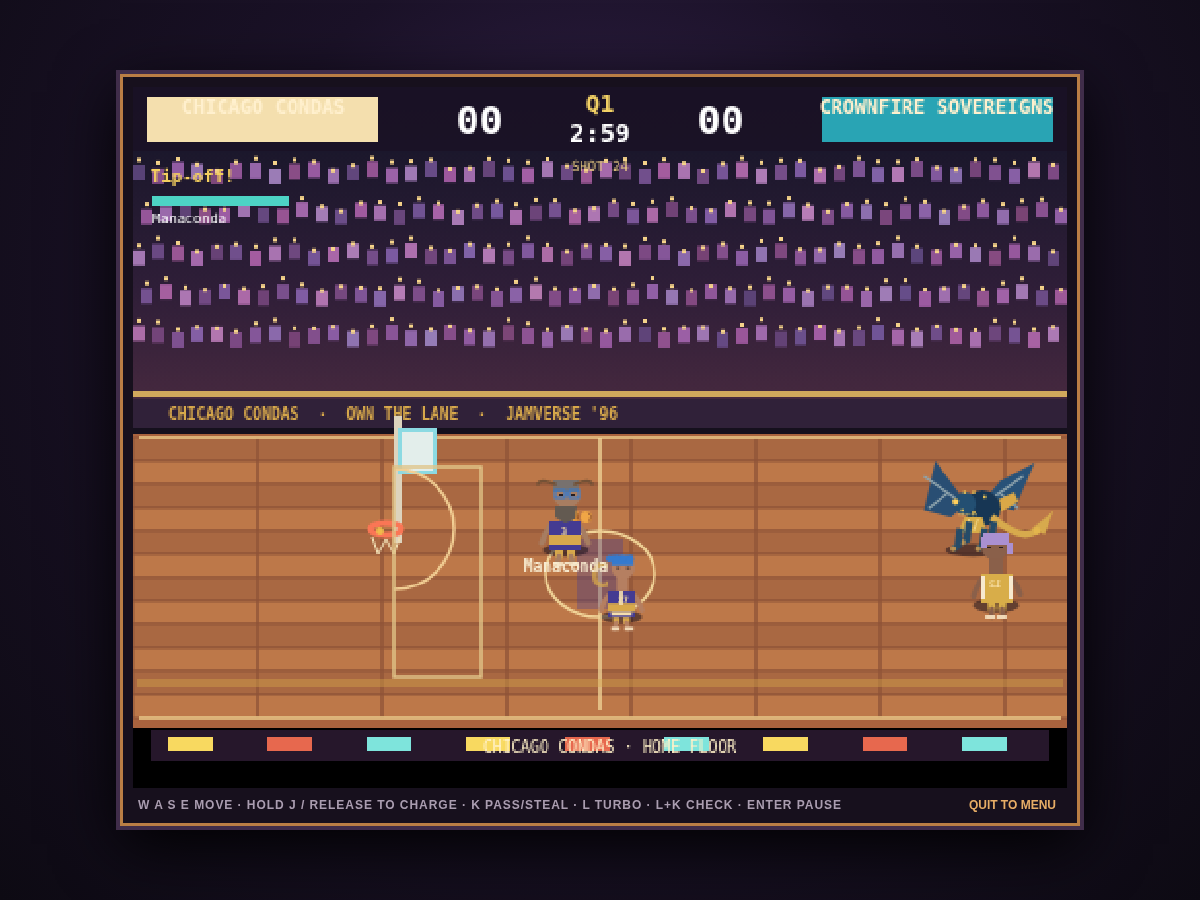
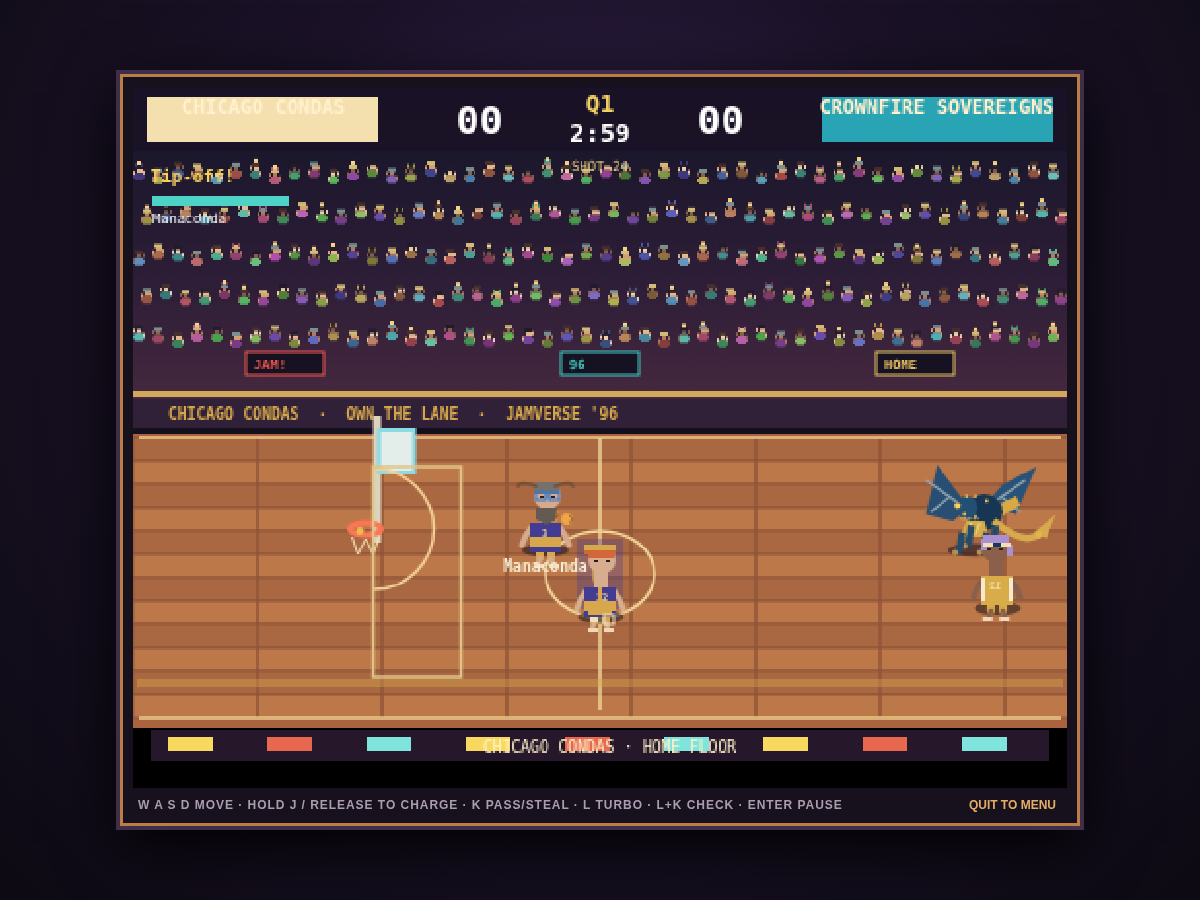
Add animated audience silhouettes and arena signs

diff --git a/dist/JAMVERSE_96.html b/dist/JAMVERSE_96.html
@@ -843,7 +843,23 @@ function hexRgb(c){return [parseInt(c.slice(1,3),16),parseInt(c.slice(3,5),16),p
 function rgbHex(c){return '#'+c.map(v=>Math.max(0,Math.min(255,Math.round(v))).toString(16).padStart(2,'0')).join('')}
 function render(){const w=480,h=360;ctx.clearRect(0,0,w,h);if(!match){drawArena();drawCourt();return}const focus=match.ball.x;camX+=(focus-camX)*.045;camX=Math.max(50,Math.min(150,camX));ctx.save();if(ui.shakeFrames>0&&screenShake&&!reducedFlash){ctx.translate(Math.sin(Date.now()/13)*ui.shakeFrames*.48,Math.cos(Date.now()/17)*ui.shakeFrames*.3)}drawArena();drawCourt();const entities=match.players.map(p=>({type:'player',p,sort:p.y+p.z*-.05}));entities.push({type:'ball',sort:match.ball.y-.5});entities.sort((a,b)=>a.sort-b.sort);for(const e of entities){if(e.type==='player')drawAthlete(e.p);else drawBall(match.ball)}ctx.restore();drawHUD();if(match.phase==='break')drawOverlay(`${match.period===3?'HALFTIME':'QUARTER BREAK'}`,`${match.teamNames[0]}  ${match.score[0]}  —  ${match.score[1]}`,'P/O SUB  ·  PASS ON GAMEPAD');if(match.phase==='overtime'&&match.periodBreak>0)drawOverlay('OVERTIME','NEXT PERIOD','SAME TEAMS. BIGGER MOMENT.');if(match.pause)drawOverlay('PAUSED','GAME FROZEN','ENTER TO RESUME');if(match.phase==='final')drawFinal();}
 function project(x,y,z=0){const px=240+(x-camX)*2.2;const py=177+y*1.42-z*7;return [px,py]}
-function drawArena(){const g=ctx.createLinearGradient(0,0,0,190);g.addColorStop(0,'#121426');g.addColorStop(.55,'#2f1e38');g.addColorStop(1,'#512e42');ctx.fillStyle=g;ctx.fillRect(0,0,480,190);for(let row=0;row<5;row++){for(let col=0;col<54;col++){const x=col*10+(row%2)*4,y=40+row*21+Math.sin(col*2+row)*2;const hue=(col*31+row*73)%42;ctx.fillStyle=`hsl(${hue+265} 28% ${36+(col*7+row*11)%25}%)`;ctx.fillRect(x,y,6,8);ctx.fillStyle='#f5d38a';const flicker=reducedFlash?0:Math.sin(Date.now()/250+col)*2;ctx.fillRect(x+2,y-2+flicker,2,2)}}const t=match?teamById(homeSelect.value):teams[0];ctx.fillStyle='#d1a85c';ctx.fillRect(0,156,480,3);ctx.fillStyle='#302139';ctx.fillRect(0,160,480,17);ctx.fillStyle=t.colors[1];ctx.font='bold 8px monospace';ctx.fillText(`${t.name.toUpperCase()}  ·  ${t.slogan.toUpperCase()}  ·  JAMVERSE '96`,18,171);ctx.fillStyle='#15101d';ctx.fillRect(0,175,480,4)}
+function drawArena(){
+  const g=ctx.createLinearGradient(0,0,0,190);g.addColorStop(0,'#121426');g.addColorStop(.55,'#2f1e38');g.addColorStop(1,'#512e42');ctx.fillStyle=g;ctx.fillRect(0,0,480,190);
+  const skins=['#e6b88f','#b5795d','#845d4e','#d6a071','#edcfa9','#8b6348'];
+  for(let row=0;row<5;row++)for(let col=0;col<54;col++){
+    const seed=col*31+row*73,x=col*10+(row%2)*4,y=40+row*21+Math.sin(col*2+row)*2;
+    const jacket=`hsl(${(seed*17+250)%360} 38% ${34+(seed*7)%25}%)`,skin=skins[seed%skins.length],head=2+(seed%3===0?1:0),creature=seed%7===0;
+    ctx.fillStyle=jacket;ctx.fillRect(x+1,y+4,4,4);ctx.fillRect(x,y+5,1,2);ctx.fillRect(x+5,y+5,1,2);
+    ctx.fillStyle=skin;ctx.fillRect(x+2,y+1,head,3);
+    ctx.fillStyle=(seed%4===0?'#211c29':seed%4===1?'#d2bd78':seed%4===2?'#45302c':'#789092');ctx.fillRect(x+1,y,4,2);
+    if(creature){ctx.fillStyle=jacket;ctx.fillRect(x+1,y-1,1,2);ctx.fillRect(x+4,y-1,1,2)}
+    const wave=reducedFlash?0:Math.sin(Date.now()/190+col*.8+row)*1.4;
+    ctx.fillStyle=skin;ctx.fillRect(x,y+3+wave,1,2);ctx.fillRect(x+5,y+3-wave,1,2);
+    if(!reducedFlash&&((seed%11===0)||Math.sin(Date.now()/260+seed)>.93)){ctx.fillStyle='#f5d38a';ctx.fillRect(x+2,y-2,2,2)}
+  }
+  for(const [x,label,color] of [[58,'JAM!','#e95652'],[220,'96','#3fc4bd'],[382,'HOME','#e2bd62']]){ctx.fillStyle='#171221';ctx.fillRect(x,136,40,12);ctx.strokeStyle=color;ctx.lineWidth=1;ctx.strokeRect(x,136,40,12);ctx.fillStyle=color;ctx.font='bold 7px monospace';ctx.fillText(label,x+4,145)}
+  const t=match?teamById(homeSelect.value):teams[0];ctx.fillStyle='#d1a85c';ctx.fillRect(0,156,480,3);ctx.fillStyle='#302139';ctx.fillRect(0,160,480,17);ctx.fillStyle=t.colors[1];ctx.font='bold 8px monospace';ctx.fillText(`${t.name.toUpperCase()}  ·  ${t.slogan.toUpperCase()}  ·  JAMVERSE '96`,18,171);ctx.fillStyle='#15101d';ctx.fillRect(0,175,480,4)
+}
 function drawCourt(){const t=match?teamById(match.teamNames[0]===teams[0].name?teams[0].id:homeSelect.value):teams[0], colors=palette(t);ctx.fillStyle='#a9633e';ctx.beginPath();ctx.moveTo(0,178);ctx.lineTo(480,178);ctx.lineTo(480,329);ctx.lineTo(0,329);ctx.closePath();ctx.fill();for(let row=0;row<12;row++){const y=180+row*12;ctx.fillStyle=row%2?'#bd7849':'#a96842';ctx.fillRect(0,y,480,12);ctx.strokeStyle='#905538';ctx.lineWidth=1;for(let x=0;x<480;x+=64)ctx.strokeRect(x,y,64,12)}
   const [a]=project(0,0),[b]=project(200,0);ctx.strokeStyle='#f0ce8c';ctx.lineWidth=1.5;ctx.beginPath();ctx.moveTo(3,180);ctx.lineTo(477,180);ctx.moveTo(3,324);ctx.lineTo(477,324);ctx.stroke();
   for(const end of [0,200]){const [hx,floorY]=project(end,50),hy=floorY-21;const side=end===0?1:-1;ctx.fillStyle='#ddd3bd';ctx.fillRect(hx+side*4,hy-58,4,65);ctx.fillStyle='#e3eeeb';ctx.fillRect(hx+side*7,hy-51,18,22);ctx.strokeStyle='#8cdae2';ctx.lineWidth=2;ctx.strokeRect(hx+side*7,hy-51,18,22);ctx.strokeStyle='#fa7655';ctx.lineWidth=3;ctx.beginPath();ctx.ellipse(hx,hy,8,3,0,0,Math.PI*2);ctx.stroke();ctx.strokeStyle='#f0ddb2';ctx.lineWidth=1;ctx.beginPath();ctx.moveTo(hx-7,hy+4);ctx.lineTo(hx-4,hy+13);ctx.lineTo(hx,hy+5);ctx.lineTo(hx+4,hy+13);ctx.lineTo(hx+7,hy+4);ctx.stroke();ctx.fillStyle='#f0bb4b';ctx.beginPath();ctx.ellipse(hx-side*3,hy+1,2,2,0,0,Math.PI*2);ctx.fill();ctx.strokeStyle='#f2cf94';ctx.lineWidth=1.5;ctx.beginPath();ctx.arc(hx+side*4,hy,31,-Math.PI/2,Math.PI/2);ctx.stroke();ctx.strokeStyle='#e0c388';ctx.strokeRect(hx+side*4,195,side*45,108)}

diff --git a/dist/src/main.js b/dist/src/main.js
@@ -189,7 +189,23 @@ function hexRgb(c){return [parseInt(c.slice(1,3),16),parseInt(c.slice(3,5),16),p
 function rgbHex(c){return '#'+c.map(v=>Math.max(0,Math.min(255,Math.round(v))).toString(16).padStart(2,'0')).join('')}
 function render(){const w=480,h=360;ctx.clearRect(0,0,w,h);if(!match){drawArena();drawCourt();return}const focus=match.ball.x;camX+=(focus-camX)*.045;camX=Math.max(50,Math.min(150,camX));ctx.save();if(ui.shakeFrames>0&&screenShake&&!reducedFlash){ctx.translate(Math.sin(Date.now()/13)*ui.shakeFrames*.48,Math.cos(Date.now()/17)*ui.shakeFrames*.3)}drawArena();drawCourt();const entities=match.players.map(p=>({type:'player',p,sort:p.y+p.z*-.05}));entities.push({type:'ball',sort:match.ball.y-.5});entities.sort((a,b)=>a.sort-b.sort);for(const e of entities){if(e.type==='player')drawAthlete(e.p);else drawBall(match.ball)}ctx.restore();drawHUD();if(match.phase==='break')drawOverlay(`${match.period===3?'HALFTIME':'QUARTER BREAK'}`,`${match.teamNames[0]}  ${match.score[0]}  —  ${match.score[1]}`,'P/O SUB  ·  PASS ON GAMEPAD');if(match.phase==='overtime'&&match.periodBreak>0)drawOverlay('OVERTIME','NEXT PERIOD','SAME TEAMS. BIGGER MOMENT.');if(match.pause)drawOverlay('PAUSED','GAME FROZEN','ENTER TO RESUME');if(match.phase==='final')drawFinal();}
 function project(x,y,z=0){const px=240+(x-camX)*2.2;const py=177+y*1.42-z*7;return [px,py]}
-function drawArena(){const g=ctx.createLinearGradient(0,0,0,190);g.addColorStop(0,'#121426');g.addColorStop(.55,'#2f1e38');g.addColorStop(1,'#512e42');ctx.fillStyle=g;ctx.fillRect(0,0,480,190);for(let row=0;row<5;row++){for(let col=0;col<54;col++){const x=col*10+(row%2)*4,y=40+row*21+Math.sin(col*2+row)*2;const hue=(col*31+row*73)%42;ctx.fillStyle=`hsl(${hue+265} 28% ${36+(col*7+row*11)%25}%)`;ctx.fillRect(x,y,6,8);ctx.fillStyle='#f5d38a';const flicker=reducedFlash?0:Math.sin(Date.now()/250+col)*2;ctx.fillRect(x+2,y-2+flicker,2,2)}}const t=match?teamById(homeSelect.value):teams[0];ctx.fillStyle='#d1a85c';ctx.fillRect(0,156,480,3);ctx.fillStyle='#302139';ctx.fillRect(0,160,480,17);ctx.fillStyle=t.colors[1];ctx.font='bold 8px monospace';ctx.fillText(`${t.name.toUpperCase()}  ·  ${t.slogan.toUpperCase()}  ·  JAMVERSE '96`,18,171);ctx.fillStyle='#15101d';ctx.fillRect(0,175,480,4)}
+function drawArena(){
+  const g=ctx.createLinearGradient(0,0,0,190);g.addColorStop(0,'#121426');g.addColorStop(.55,'#2f1e38');g.addColorStop(1,'#512e42');ctx.fillStyle=g;ctx.fillRect(0,0,480,190);
+  const skins=['#e6b88f','#b5795d','#845d4e','#d6a071','#edcfa9','#8b6348'];
+  for(let row=0;row<5;row++)for(let col=0;col<54;col++){
+    const seed=col*31+row*73,x=col*10+(row%2)*4,y=40+row*21+Math.sin(col*2+row)*2;
+    const jacket=`hsl(${(seed*17+250)%360} 38% ${34+(seed*7)%25}%)`,skin=skins[seed%skins.length],head=2+(seed%3===0?1:0),creature=seed%7===0;
+    ctx.fillStyle=jacket;ctx.fillRect(x+1,y+4,4,4);ctx.fillRect(x,y+5,1,2);ctx.fillRect(x+5,y+5,1,2);
+    ctx.fillStyle=skin;ctx.fillRect(x+2,y+1,head,3);
+    ctx.fillStyle=(seed%4===0?'#211c29':seed%4===1?'#d2bd78':seed%4===2?'#45302c':'#789092');ctx.fillRect(x+1,y,4,2);
+    if(creature){ctx.fillStyle=jacket;ctx.fillRect(x+1,y-1,1,2);ctx.fillRect(x+4,y-1,1,2)}
+    const wave=reducedFlash?0:Math.sin(Date.now()/190+col*.8+row)*1.4;
+    ctx.fillStyle=skin;ctx.fillRect(x,y+3+wave,1,2);ctx.fillRect(x+5,y+3-wave,1,2);
+    if(!reducedFlash&&((seed%11===0)||Math.sin(Date.now()/260+seed)>.93)){ctx.fillStyle='#f5d38a';ctx.fillRect(x+2,y-2,2,2)}
+  }
+  for(const [x,label,color] of [[58,'JAM!','#e95652'],[220,'96','#3fc4bd'],[382,'HOME','#e2bd62']]){ctx.fillStyle='#171221';ctx.fillRect(x,136,40,12);ctx.strokeStyle=color;ctx.lineWidth=1;ctx.strokeRect(x,136,40,12);ctx.fillStyle=color;ctx.font='bold 7px monospace';ctx.fillText(label,x+4,145)}
+  const t=match?teamById(homeSelect.value):teams[0];ctx.fillStyle='#d1a85c';ctx.fillRect(0,156,480,3);ctx.fillStyle='#302139';ctx.fillRect(0,160,480,17);ctx.fillStyle=t.colors[1];ctx.font='bold 8px monospace';ctx.fillText(`${t.name.toUpperCase()}  ·  ${t.slogan.toUpperCase()}  ·  JAMVERSE '96`,18,171);ctx.fillStyle='#15101d';ctx.fillRect(0,175,480,4)
+}
 function drawCourt(){const t=match?teamById(match.teamNames[0]===teams[0].name?teams[0].id:homeSelect.value):teams[0], colors=palette(t);ctx.fillStyle='#a9633e';ctx.beginPath();ctx.moveTo(0,178);ctx.lineTo(480,178);ctx.lineTo(480,329);ctx.lineTo(0,329);ctx.closePath();ctx.fill();for(let row=0;row<12;row++){const y=180+row*12;ctx.fillStyle=row%2?'#bd7849':'#a96842';ctx.fillRect(0,y,480,12);ctx.strokeStyle='#905538';ctx.lineWidth=1;for(let x=0;x<480;x+=64)ctx.strokeRect(x,y,64,12)}
   const [a]=project(0,0),[b]=project(200,0);ctx.strokeStyle='#f0ce8c';ctx.lineWidth=1.5;ctx.beginPath();ctx.moveTo(3,180);ctx.lineTo(477,180);ctx.moveTo(3,324);ctx.lineTo(477,324);ctx.stroke();
   for(const end of [0,200]){const [hx,floorY]=project(end,50),hy=floorY-21;const side=end===0?1:-1;ctx.fillStyle='#ddd3bd';ctx.fillRect(hx+side*4,hy-58,4,65);ctx.fillStyle='#e3eeeb';ctx.fillRect(hx+side*7,hy-51,18,22);ctx.strokeStyle='#8cdae2';ctx.lineWidth=2;ctx.strokeRect(hx+side*7,hy-51,18,22);ctx.strokeStyle='#fa7655';ctx.lineWidth=3;ctx.beginPath();ctx.ellipse(hx,hy,8,3,0,0,Math.PI*2);ctx.stroke();ctx.strokeStyle='#f0ddb2';ctx.lineWidth=1;ctx.beginPath();ctx.moveTo(hx-7,hy+4);ctx.lineTo(hx-4,hy+13);ctx.lineTo(hx,hy+5);ctx.lineTo(hx+4,hy+13);ctx.lineTo(hx+7,hy+4);ctx.stroke();ctx.fillStyle='#f0bb4b';ctx.beginPath();ctx.ellipse(hx-side*3,hy+1,2,2,0,0,Math.PI*2);ctx.fill();ctx.strokeStyle='#f2cf94';ctx.lineWidth=1.5;ctx.beginPath();ctx.arc(hx+side*4,hy,31,-Math.PI/2,Math.PI/2);ctx.stroke();ctx.strokeStyle='#e0c388';ctx.strokeRect(hx+side*4,195,side*45,108)}

diff --git a/src/main.js b/src/main.js
@@ -189,7 +189,23 @@ function hexRgb(c){return [parseInt(c.slice(1,3),16),parseInt(c.slice(3,5),16),p
 function rgbHex(c){return '#'+c.map(v=>Math.max(0,Math.min(255,Math.round(v))).toString(16).padStart(2,'0')).join('')}
 function render(){const w=480,h=360;ctx.clearRect(0,0,w,h);if(!match){drawArena();drawCourt();return}const focus=match.ball.x;camX+=(focus-camX)*.045;camX=Math.max(50,Math.min(150,camX));ctx.save();if(ui.shakeFrames>0&&screenShake&&!reducedFlash){ctx.translate(Math.sin(Date.now()/13)*ui.shakeFrames*.48,Math.cos(Date.now()/17)*ui.shakeFrames*.3)}drawArena();drawCourt();const entities=match.players.map(p=>({type:'player',p,sort:p.y+p.z*-.05}));entities.push({type:'ball',sort:match.ball.y-.5});entities.sort((a,b)=>a.sort-b.sort);for(const e of entities){if(e.type==='player')drawAthlete(e.p);else drawBall(match.ball)}ctx.restore();drawHUD();if(match.phase==='break')drawOverlay(`${match.period===3?'HALFTIME':'QUARTER BREAK'}`,`${match.teamNames[0]}  ${match.score[0]}  —  ${match.score[1]}`,'P/O SUB  ·  PASS ON GAMEPAD');if(match.phase==='overtime'&&match.periodBreak>0)drawOverlay('OVERTIME','NEXT PERIOD','SAME TEAMS. BIGGER MOMENT.');if(match.pause)drawOverlay('PAUSED','GAME FROZEN','ENTER TO RESUME');if(match.phase==='final')drawFinal();}
 function project(x,y,z=0){const px=240+(x-camX)*2.2;const py=177+y*1.42-z*7;return [px,py]}
-function drawArena(){const g=ctx.createLinearGradient(0,0,0,190);g.addColorStop(0,'#121426');g.addColorStop(.55,'#2f1e38');g.addColorStop(1,'#512e42');ctx.fillStyle=g;ctx.fillRect(0,0,480,190);for(let row=0;row<5;row++){for(let col=0;col<54;col++){const x=col*10+(row%2)*4,y=40+row*21+Math.sin(col*2+row)*2;const hue=(col*31+row*73)%42;ctx.fillStyle=`hsl(${hue+265} 28% ${36+(col*7+row*11)%25}%)`;ctx.fillRect(x,y,6,8);ctx.fillStyle='#f5d38a';const flicker=reducedFlash?0:Math.sin(Date.now()/250+col)*2;ctx.fillRect(x+2,y-2+flicker,2,2)}}const t=match?teamById(homeSelect.value):teams[0];ctx.fillStyle='#d1a85c';ctx.fillRect(0,156,480,3);ctx.fillStyle='#302139';ctx.fillRect(0,160,480,17);ctx.fillStyle=t.colors[1];ctx.font='bold 8px monospace';ctx.fillText(`${t.name.toUpperCase()}  ·  ${t.slogan.toUpperCase()}  ·  JAMVERSE '96`,18,171);ctx.fillStyle='#15101d';ctx.fillRect(0,175,480,4)}
+function drawArena(){
+  const g=ctx.createLinearGradient(0,0,0,190);g.addColorStop(0,'#121426');g.addColorStop(.55,'#2f1e38');g.addColorStop(1,'#512e42');ctx.fillStyle=g;ctx.fillRect(0,0,480,190);
+  const skins=['#e6b88f','#b5795d','#845d4e','#d6a071','#edcfa9','#8b6348'];
+  for(let row=0;row<5;row++)for(let col=0;col<54;col++){
+    const seed=col*31+row*73,x=col*10+(row%2)*4,y=40+row*21+Math.sin(col*2+row)*2;
+    const jacket=`hsl(${(seed*17+250)%360} 38% ${34+(seed*7)%25}%)`,skin=skins[seed%skins.length],head=2+(seed%3===0?1:0),creature=seed%7===0;
+    ctx.fillStyle=jacket;ctx.fillRect(x+1,y+4,4,4);ctx.fillRect(x,y+5,1,2);ctx.fillRect(x+5,y+5,1,2);
+    ctx.fillStyle=skin;ctx.fillRect(x+2,y+1,head,3);
+    ctx.fillStyle=(seed%4===0?'#211c29':seed%4===1?'#d2bd78':seed%4===2?'#45302c':'#789092');ctx.fillRect(x+1,y,4,2);
+    if(creature){ctx.fillStyle=jacket;ctx.fillRect(x+1,y-1,1,2);ctx.fillRect(x+4,y-1,1,2)}
+    const wave=reducedFlash?0:Math.sin(Date.now()/190+col*.8+row)*1.4;
+    ctx.fillStyle=skin;ctx.fillRect(x,y+3+wave,1,2);ctx.fillRect(x+5,y+3-wave,1,2);
+    if(!reducedFlash&&((seed%11===0)||Math.sin(Date.now()/260+seed)>.93)){ctx.fillStyle='#f5d38a';ctx.fillRect(x+2,y-2,2,2)}
+  }
+  for(const [x,label,color] of [[58,'JAM!','#e95652'],[220,'96','#3fc4bd'],[382,'HOME','#e2bd62']]){ctx.fillStyle='#171221';ctx.fillRect(x,136,40,12);ctx.strokeStyle=color;ctx.lineWidth=1;ctx.strokeRect(x,136,40,12);ctx.fillStyle=color;ctx.font='bold 7px monospace';ctx.fillText(label,x+4,145)}
+  const t=match?teamById(homeSelect.value):teams[0];ctx.fillStyle='#d1a85c';ctx.fillRect(0,156,480,3);ctx.fillStyle='#302139';ctx.fillRect(0,160,480,17);ctx.fillStyle=t.colors[1];ctx.font='bold 8px monospace';ctx.fillText(`${t.name.toUpperCase()}  ·  ${t.slogan.toUpperCase()}  ·  JAMVERSE '96`,18,171);ctx.fillStyle='#15101d';ctx.fillRect(0,175,480,4)
+}
 function drawCourt(){const t=match?teamById(match.teamNames[0]===teams[0].name?teams[0].id:homeSelect.value):teams[0], colors=palette(t);ctx.fillStyle='#a9633e';ctx.beginPath();ctx.moveTo(0,178);ctx.lineTo(480,178);ctx.lineTo(480,329);ctx.lineTo(0,329);ctx.closePath();ctx.fill();for(let row=0;row<12;row++){const y=180+row*12;ctx.fillStyle=row%2?'#bd7849':'#a96842';ctx.fillRect(0,y,480,12);ctx.strokeStyle='#905538';ctx.lineWidth=1;for(let x=0;x<480;x+=64)ctx.strokeRect(x,y,64,12)}
   const [a]=project(0,0),[b]=project(200,0);ctx.strokeStyle='#f0ce8c';ctx.lineWidth=1.5;ctx.beginPath();ctx.moveTo(3,180);ctx.lineTo(477,180);ctx.moveTo(3,324);ctx.lineTo(477,324);ctx.stroke();
   for(const end of [0,200]){const [hx,floorY]=project(end,50),hy=floorY-21;const side=end===0?1:-1;ctx.fillStyle='#ddd3bd';ctx.fillRect(hx+side*4,hy-58,4,65);ctx.fillStyle='#e3eeeb';ctx.fillRect(hx+side*7,hy-51,18,22);ctx.strokeStyle='#8cdae2';ctx.lineWidth=2;ctx.strokeRect(hx+side*7,hy-51,18,22);ctx.strokeStyle='#fa7655';ctx.lineWidth=3;ctx.beginPath();ctx.ellipse(hx,hy,8,3,0,0,Math.PI*2);ctx.stroke();ctx.strokeStyle='#f0ddb2';ctx.lineWidth=1;ctx.beginPath();ctx.moveTo(hx-7,hy+4);ctx.lineTo(hx-4,hy+13);ctx.lineTo(hx,hy+5);ctx.lineTo(hx+4,hy+13);ctx.lineTo(hx+7,hy+4);ctx.stroke();ctx.fillStyle='#f0bb4b';ctx.beginPath();ctx.ellipse(hx-side*3,hy+1,2,2,0,0,Math.PI*2);ctx.fill();ctx.strokeStyle='#f2cf94';ctx.lineWidth=1.5;ctx.beginPath();ctx.arc(hx+side*4,hy,31,-Math.PI/2,Math.PI/2);ctx.stroke();ctx.strokeStyle='#e0c388';ctx.strokeRect(hx+side*4,195,side*45,108)}

diff --git a/docs/KNOWN_ISSUES.md b/docs/KNOWN_ISSUES.md
@@ -14,8 +14,8 @@ Season Run now persists an eight-opponent route, advances on wins, and ends the 
 
 ## P2 — Arcade court collision/presentation gaps
 
-Rim and backboard contact use approximate collision volumes rather than detailed geometry. The crowd uses repeated blocks and the camera does not smoothly scroll all the way to both baskets. The canvas is pixel-scaled and readable, but not yet a full NBA-era sprite composition.
+Rim and backboard contact use approximate collision volumes rather than detailed geometry. The crowd uses repeated procedural silhouettes rather than individually illustrated audience sprites, and the camera does not smoothly scroll all the way to both baskets. The canvas is pixel-scaled and readable, but not yet a full NBA-era sprite composition.
 
 ## P2 — Controls/settings gaps
 
-Keyboard movement/action remapping is supported and saved for P1/P2. Up to four gamepads can take all athlete slots, including a four-pad-only match; disconnecting a pad releases that athlete to CPU or keyboard control, and reconnects are reassigned. Third/fourth keyboard bindings and physical controller variants remain untested. Gamepad button remapping and separate sound-bus controls are not complete. Reduced-flash disables the crowd light twinkle; it does not limit every motion/animation effect.
+Keyboard movement/action remapping is supported and saved for P1/P2. Up to four gamepads can take all athlete slots, including a four-pad-only match; disconnecting a pad releases that athlete to CPU or keyboard control, and reconnects are reassigned. Third/fourth keyboard bindings and physical controller variants remain untested. Gamepad button remapping is not complete. Music and effects have separate saved levels. Reduced-flash disables crowd twinkle and score shake; it does not limit every motion/animation effect.

diff --git a/docs/FEATURE_MATRIX.md b/docs/FEATURE_MATRIX.md
@@ -4,7 +4,7 @@
 
 | Requirement | Status | Evidence / gap |
 |---|---|---|
-| Browser boot, title menu, 35-franchise grid, captain cards and team arena branding | PASS | `npm run test:e2e`; browser asserts 35 drawn captain portraits, displays all three roster names and OVR ratings per franchise with full attributes on focus, captures the grid, and checks selection updates; courts show team color, center initial, and franchise slogan |
+| Browser boot, title menu, 35-franchise grid, captain cards and team arena branding | PASS | `npm run test:e2e`; browser asserts 35 drawn captain portraits, displays all three roster names and OVR ratings per franchise with full attributes on focus, captures the grid, and checks selection updates; arena includes original animated pixel-person/creature crowd rows and fictional JAM!/96/HOME signs; courts show team color, center initial, and franchise slogan |
 | Self-contained offline playable build | PASS | `npm run build` generates `dist/JAMVERSE_96.html` with all app code and CSS inline; Chromium opens that single file through a local static server, confirms 35/105 roster loads, starts a match, and observes no external asset requests |
 | 35 franchises, 105 unique athlete IDs, 35 captains, no Cleo | PASS | `npm run validate:content`; `tests/content.test.js` pins all 35 captain IDs, names, and rigs and verifies unique roster names/numbers and visual seeds, supported render rigs, ratings/skill vectors, and team presentation fields |
 | Starter selection and between-period substitution from each three-athlete roster | PASS | Pregame lineup selectors plus P/O quarter-break rotation; core test checks active lineup and preserved box score across repeat substitution |
